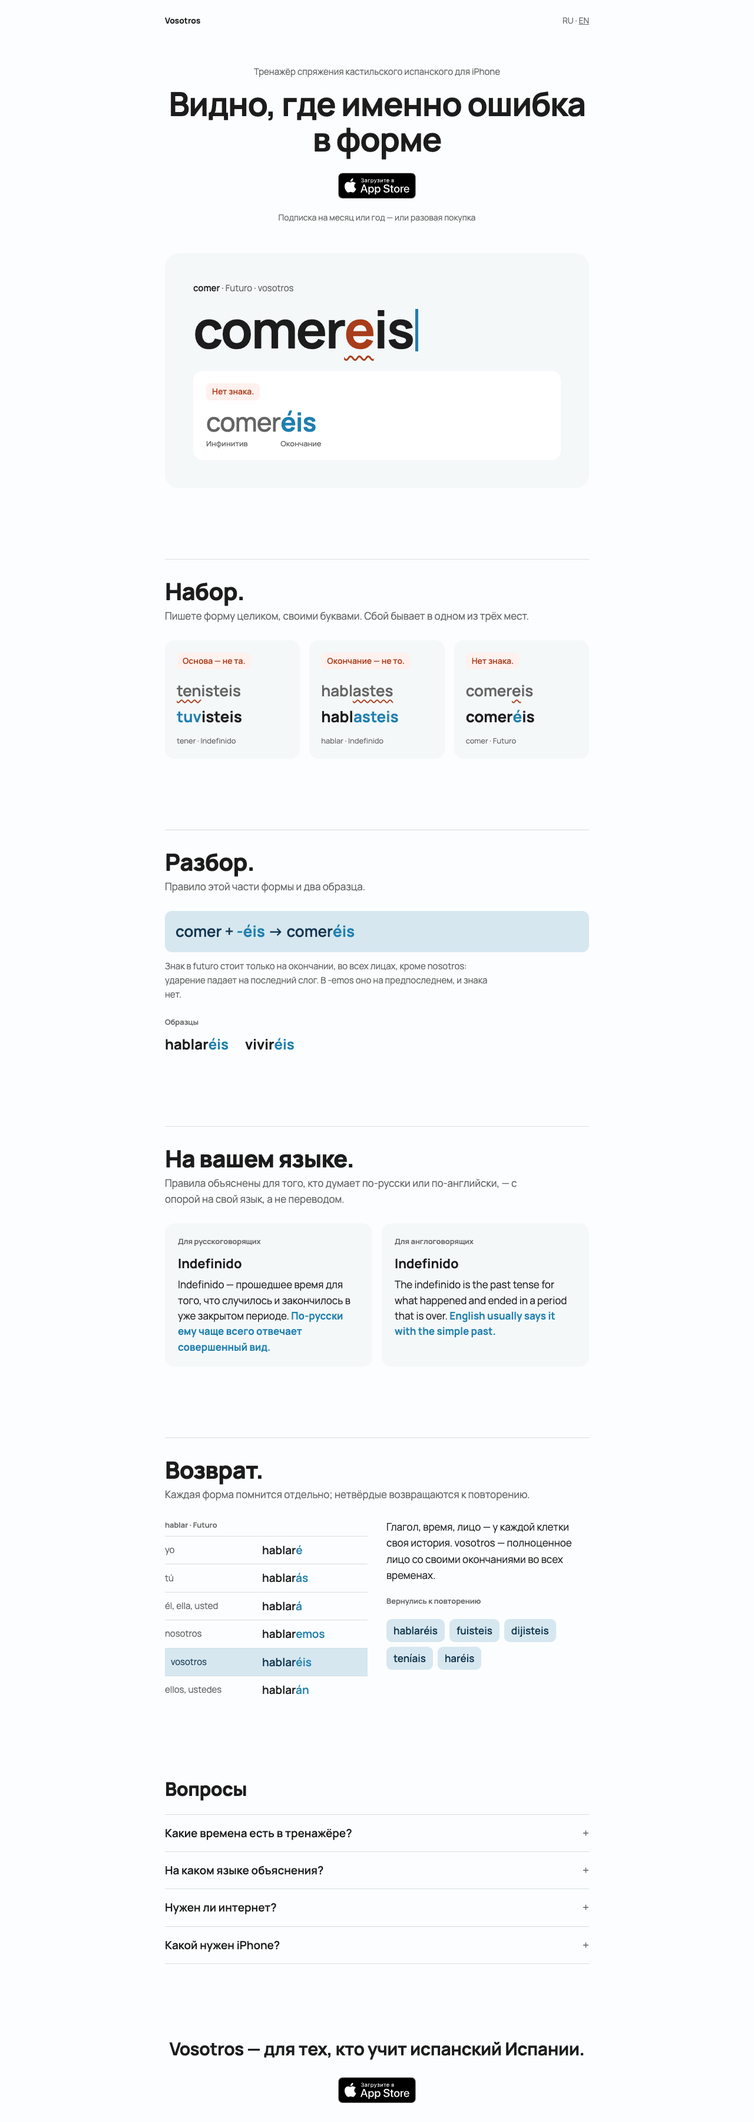
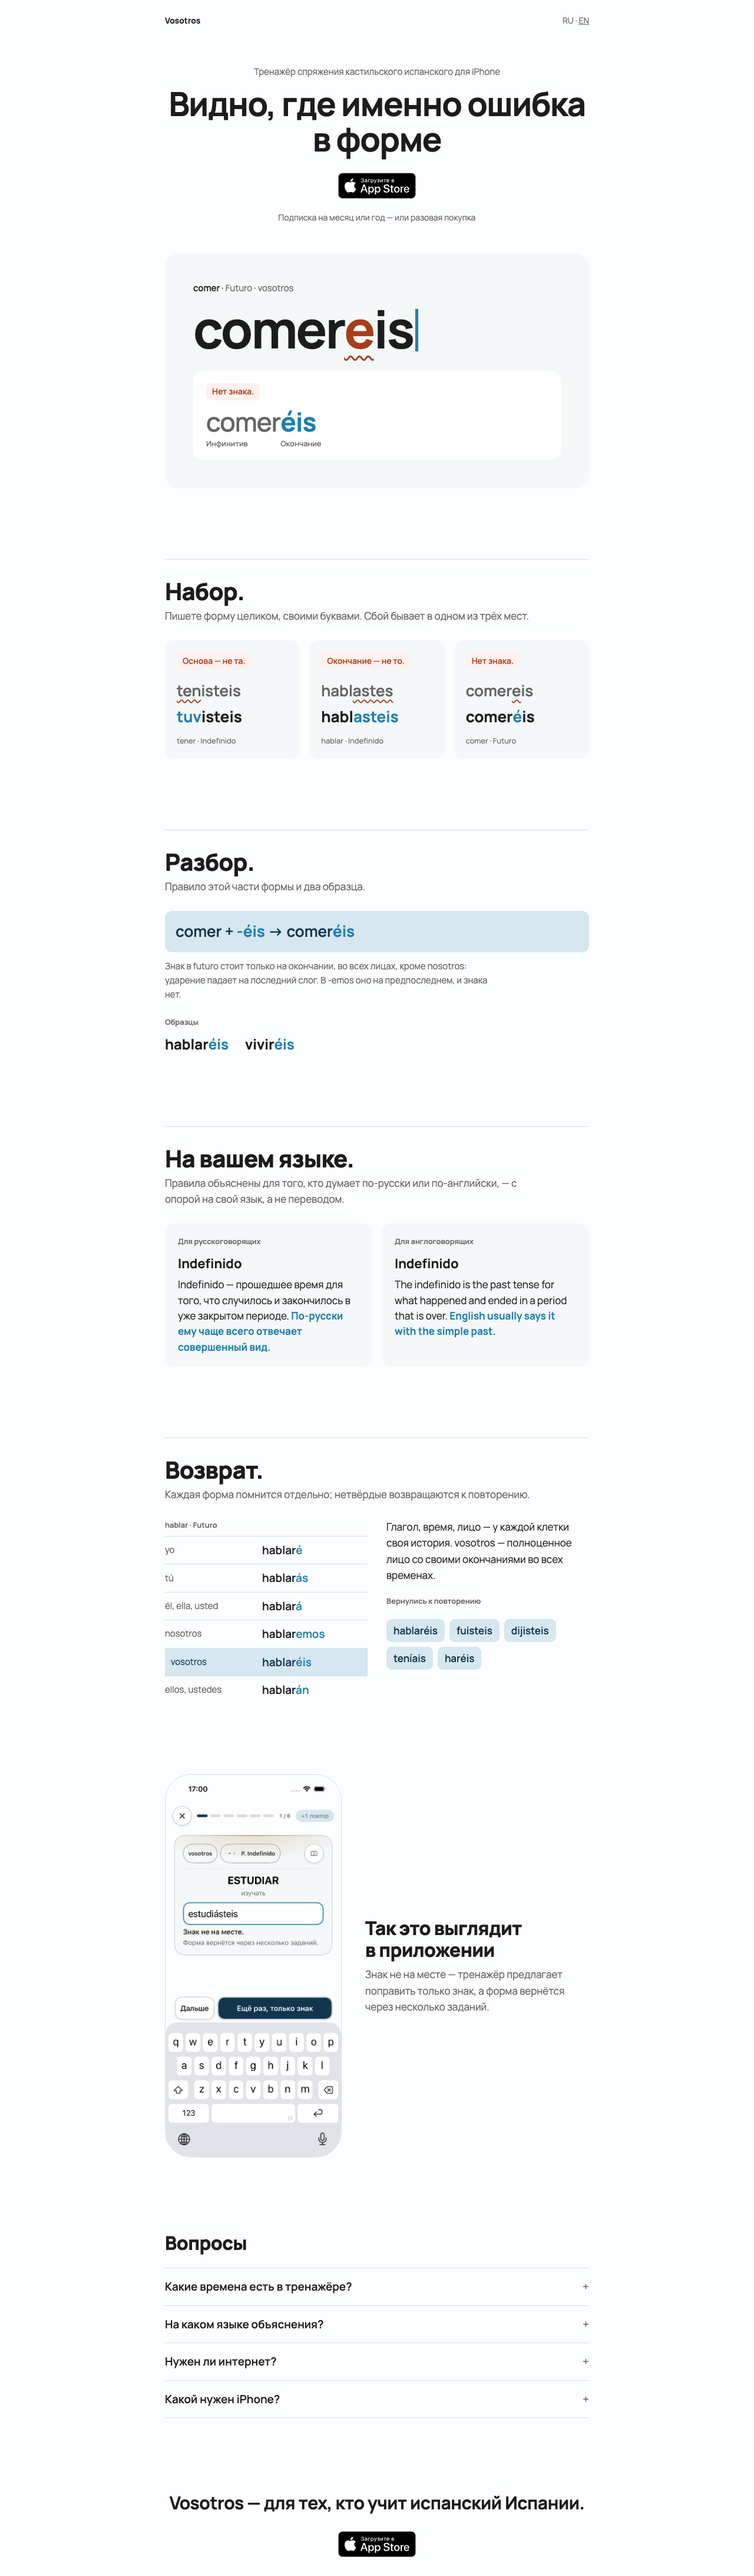
ЛН-1: вариант Б по схеме эксперта — настоящий кадр приложения (эталон ВП-1, vosotros · Indefinido, «Знак не на месте.»), день/ночь через picture; итоговые кадры

diff --git a/design/variant-B-ekspert.html b/design/variant-B-ekspert.html
@@ -77,6 +77,11 @@ tr.me{background:var(--nest)} tr.me th,tr.me td{color:var(--nestInk)} tr.me th{p
 .chips li{background:var(--nest);color:var(--nestInk);border-radius:9px;padding:6px 12px;font-weight:600}
 .ret p{margin:0 0 20px}
 
+.shot{display:grid;grid-template-columns:300px minmax(0,1fr);gap:40px;align-items:center}
+@media (max-width:760px){.shot{grid-template-columns:1fr;justify-items:center;text-align:center}}
+.shot picture img{display:block;width:300px;max-width:80vw;height:auto;border-radius:44px;border:1px solid var(--line)}
+.shot h2{font-size:clamp(28px,4vw,32px);font-weight:800;letter-spacing:-.02em;line-height:1.15;margin:0 0 10px}
+.shot p{margin:0;color:var(--muted);max-width:36ch}
 .faq details{border-top:1px solid var(--line);padding:16px 0}
 .faq details:last-child{border-bottom:1px solid var(--line)}
 .faq summary{list-style:none;cursor:pointer;display:flex;justify-content:space-between;gap:16px;font-size:19px;font-weight:600}
@@ -158,6 +163,11 @@ footer small{font-size:12px}
 <ul class="chips" lang="es"><li>hablaréis</li><li>fuisteis</li><li>dijisteis</li><li>teníais</li><li>haréis</li></ul>
 </div>
 </div>
+</section>
+
+<section class="shot">
+<picture><source srcset="img/trenirovka-znak-ru-noch.png" media="(prefers-color-scheme: dark)"><img src="img/trenirovka-znak-ru.png" width="300" height="652" alt="Экран тренировки: estudiar, vosotros, Indefinido; набрано estudiásteis; подпись «Знак не на месте. Форма вернётся через несколько заданий.»" loading="lazy"></picture>
+<div><h2>Так это выглядит в&nbsp;приложении</h2><p>Знак не на месте — тренажёр предлагает поправить только знак, а форма вернётся через несколько заданий.</p></div>
 </section>
 
 <section class="faq">
